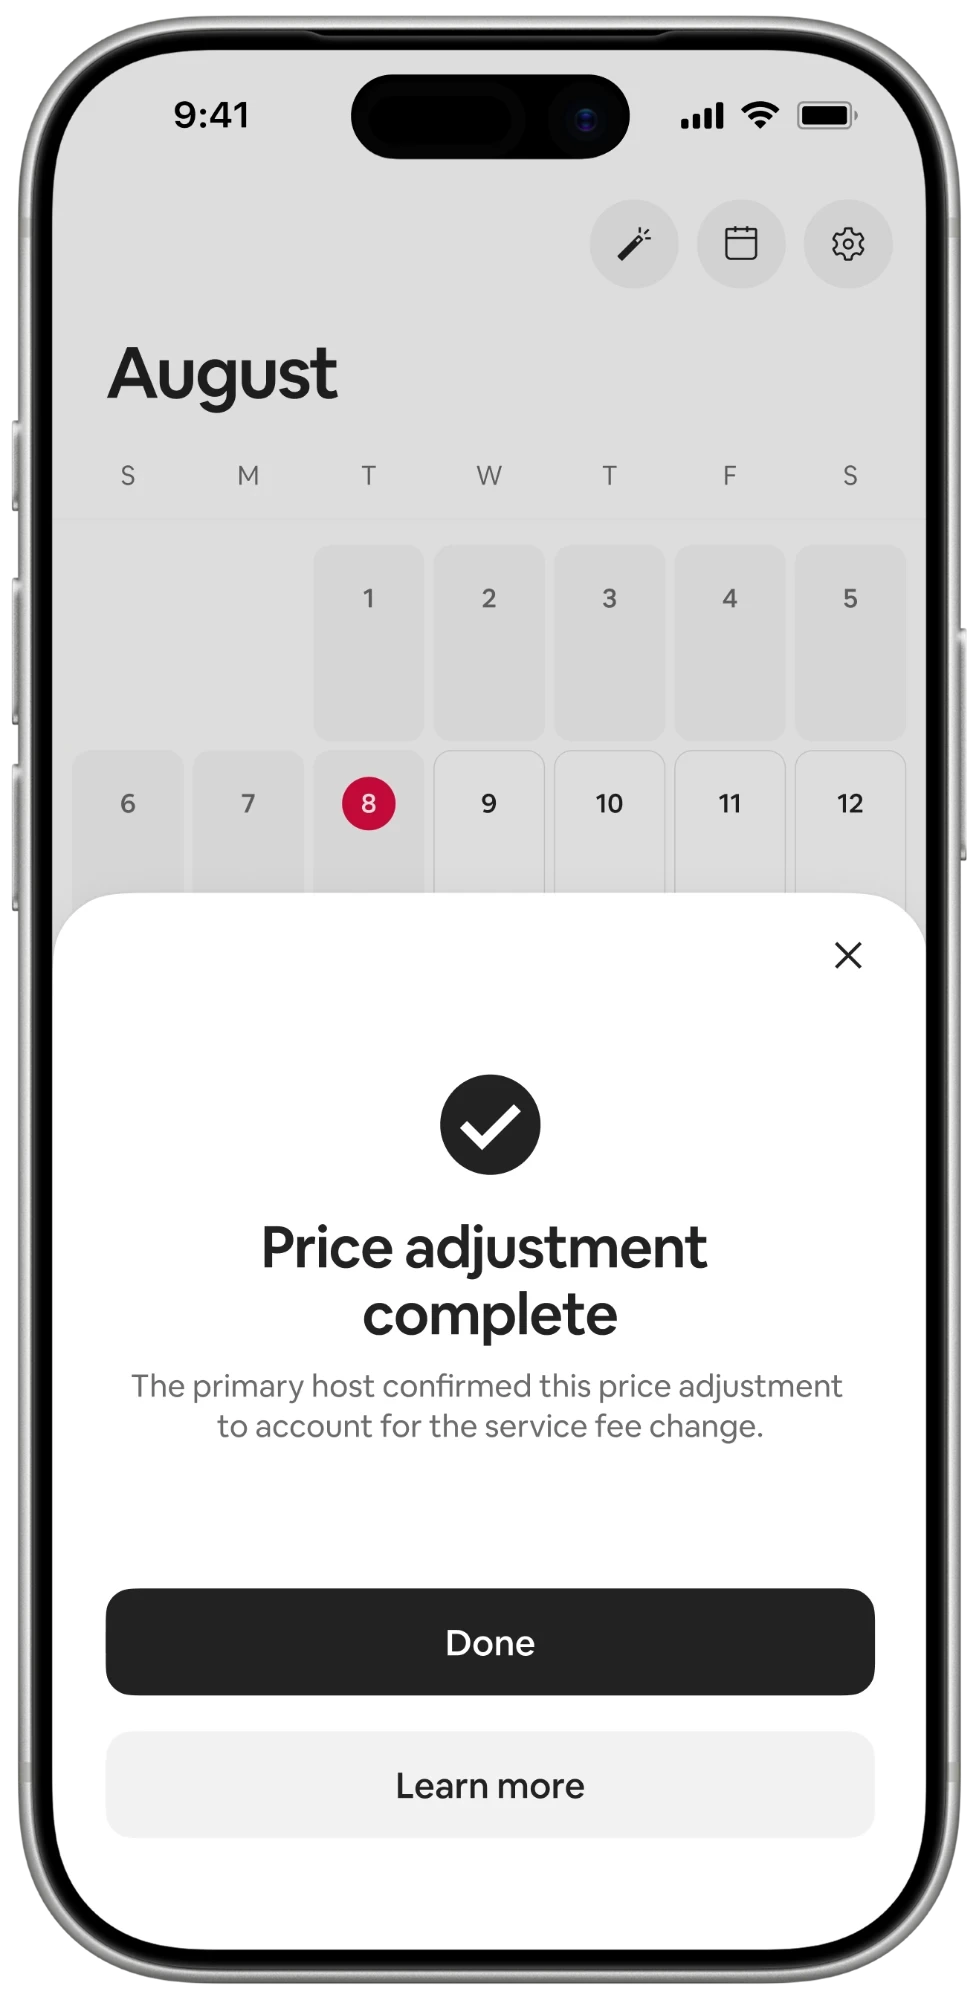
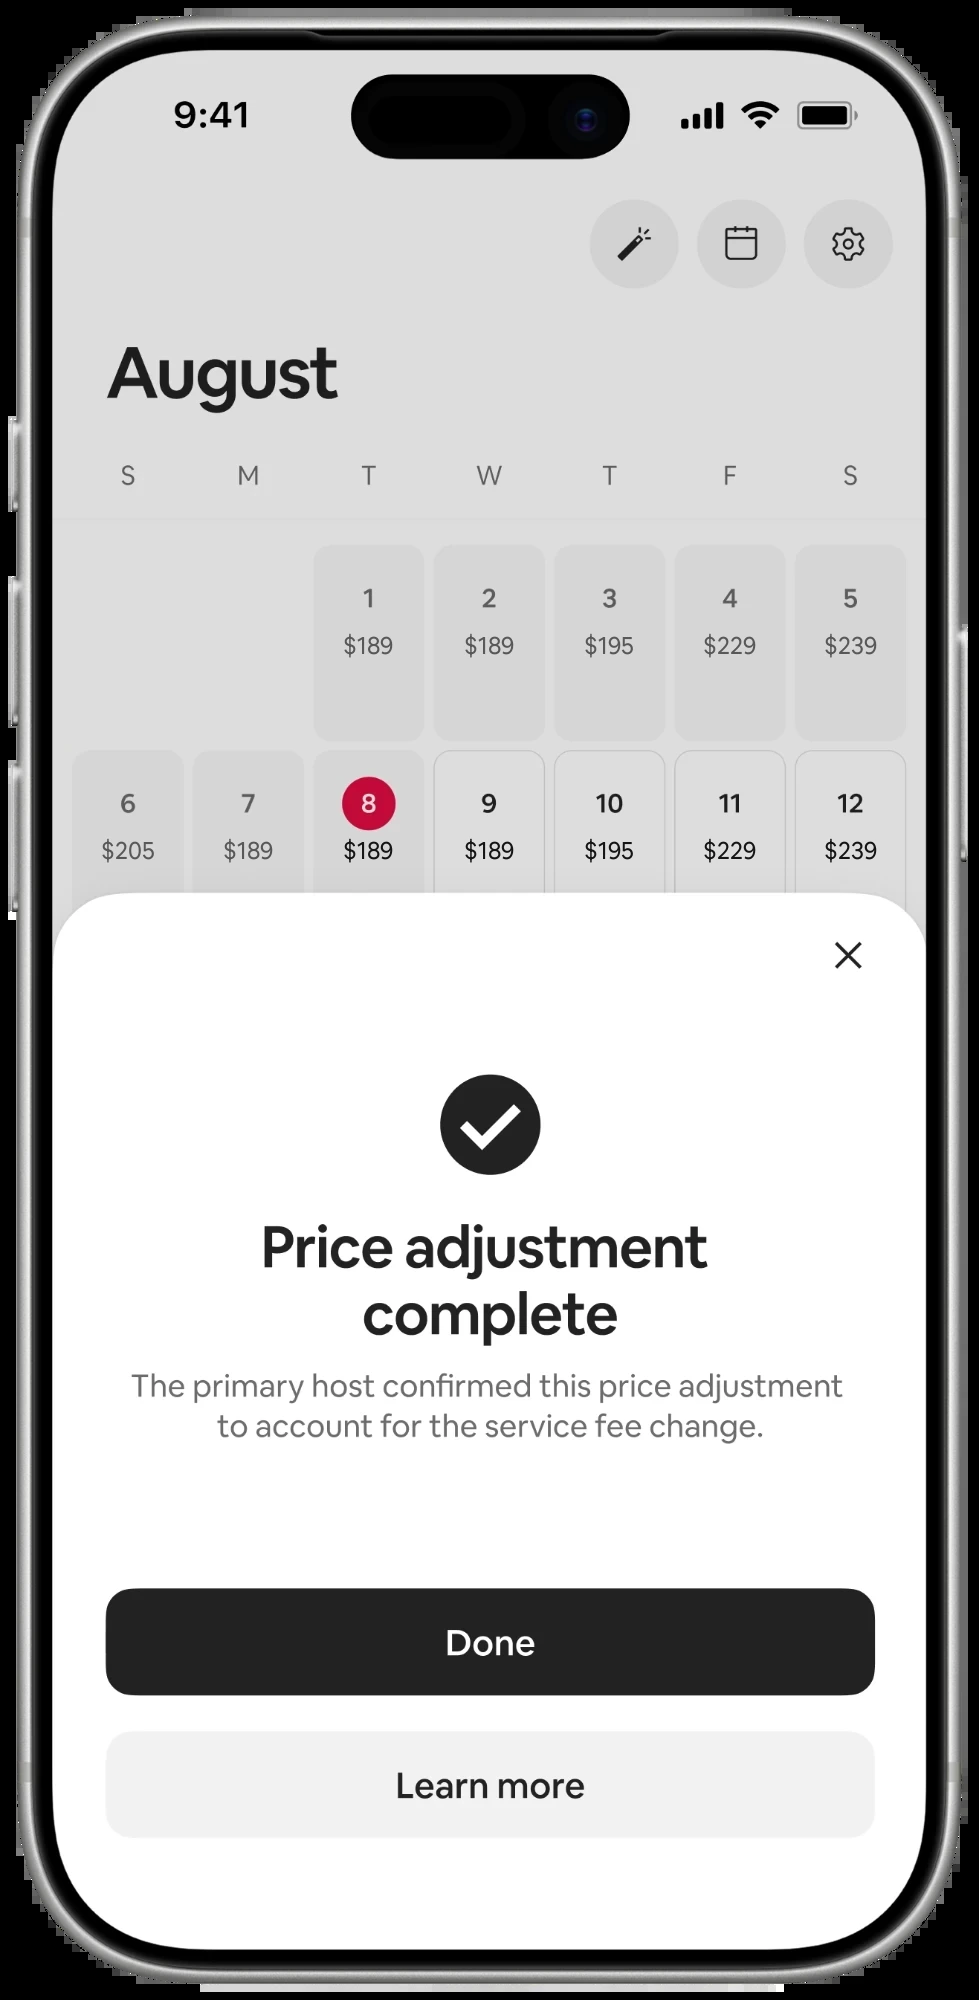
preso: the fee flow's last screen carries prices in its date cells (drawn in Cereal into the export; the original kept as fee-complete-original.webp); the lessons come before the one-price modal

diff --git a/preso/slides/09dl.html b/preso/slides/09dl.html
@@ -4,7 +4,7 @@
 <meta charset="utf-8">
 <meta name="viewport" content="width=device-width, initial-scale=1">
 <title>09dl</title>
-<!-- WHAT IT TAUGHT (John, 2026-10-02) — three lessons from the host-only fee, at the end of the fee section, after the airbnb.com one-price modal (09e). Set as the
+<!-- WHAT IT TAUGHT (John, 2026-10-02) — three lessons from the host-only fee, straight after the Reddit thread, before the airbnb.com one-price modal (09e). Set as the
      fee's own beats (09d01) are: IBM Plex Mono at 18, numbered, the number hanging; each lesson's lead in black, the why
      under it in the fee sums' grey. A first draft, to be refined. No build. -->
 <style>
